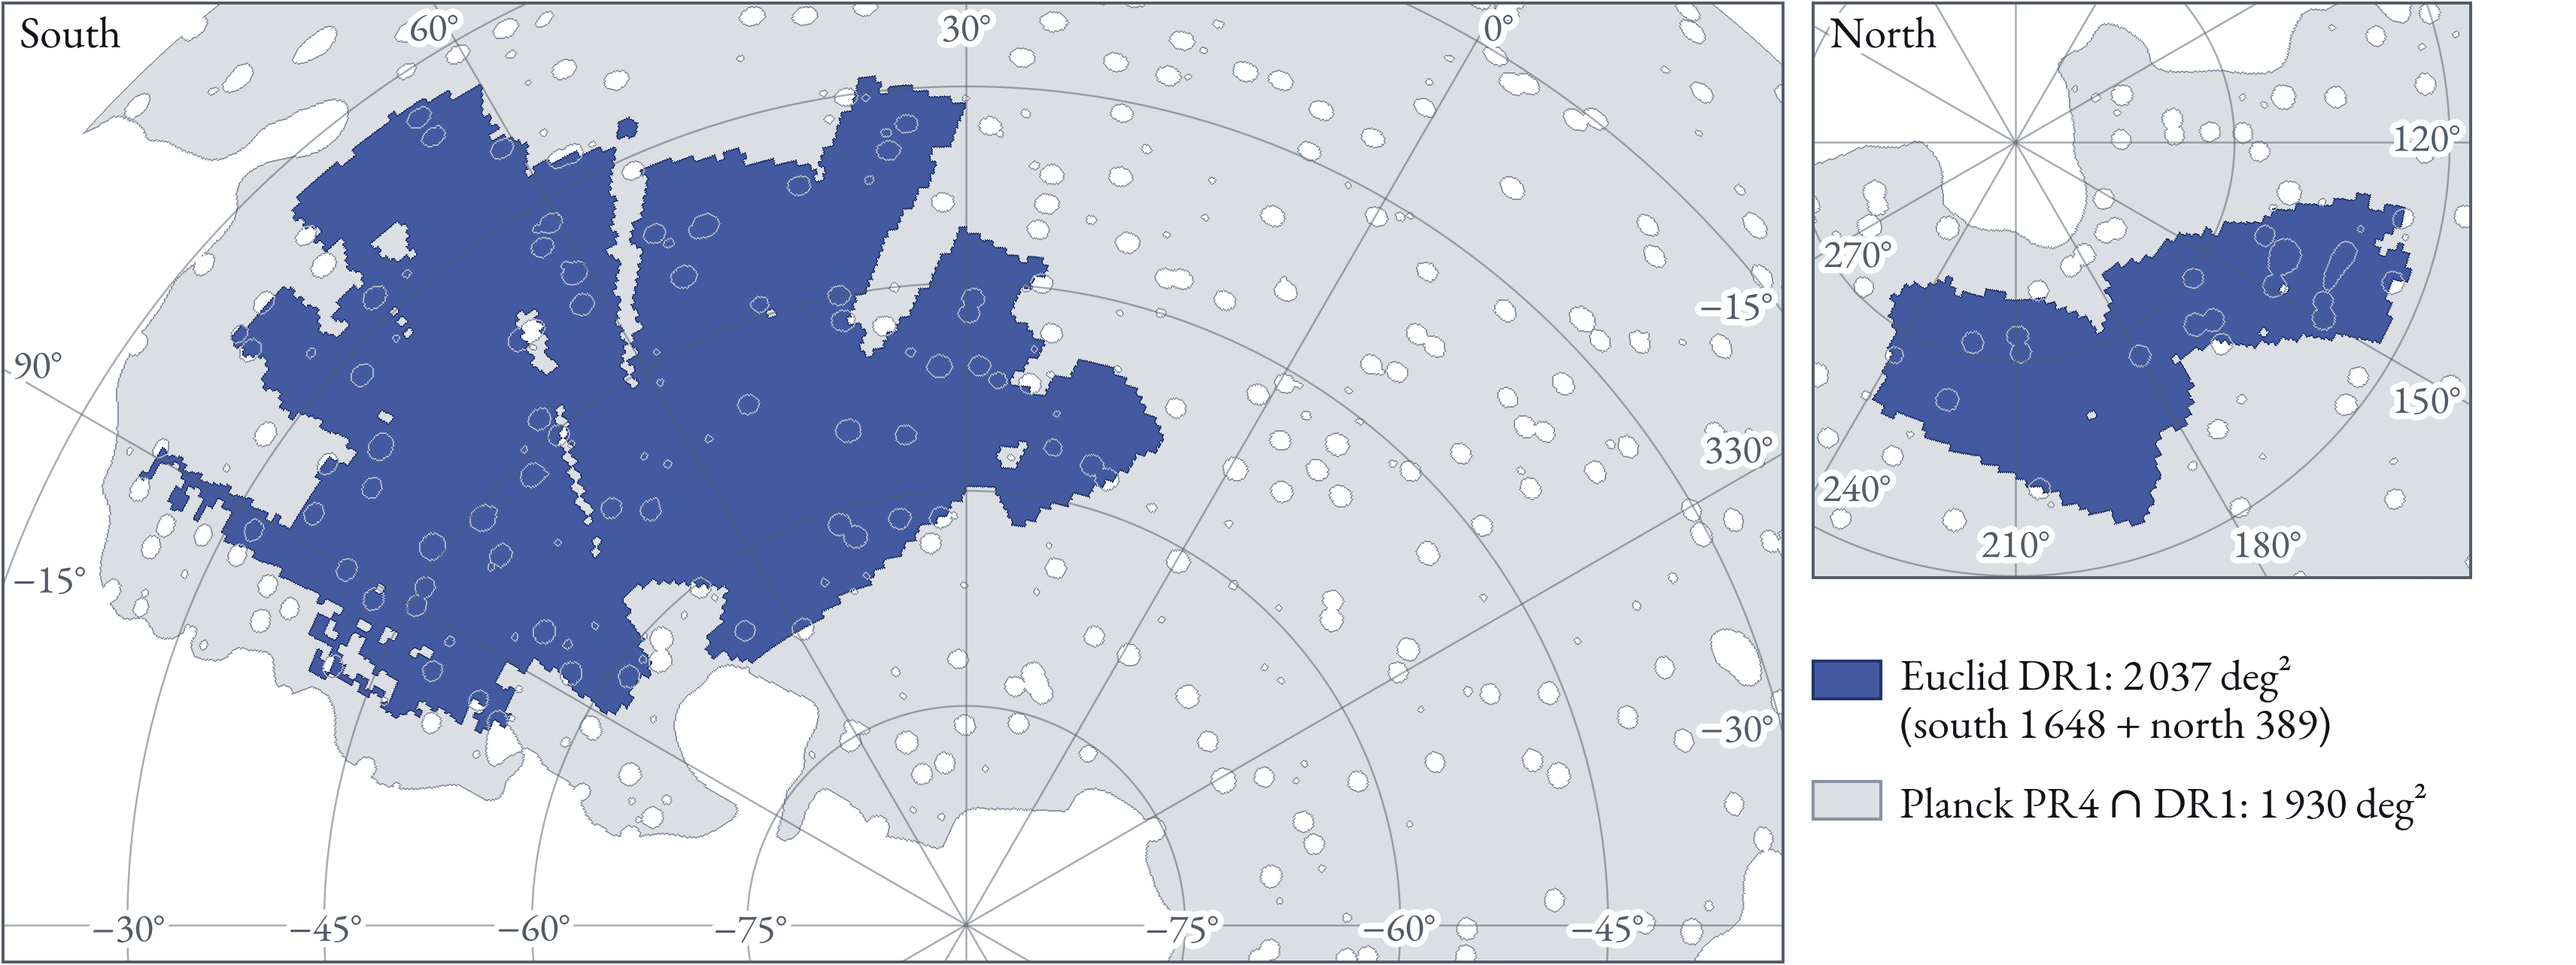
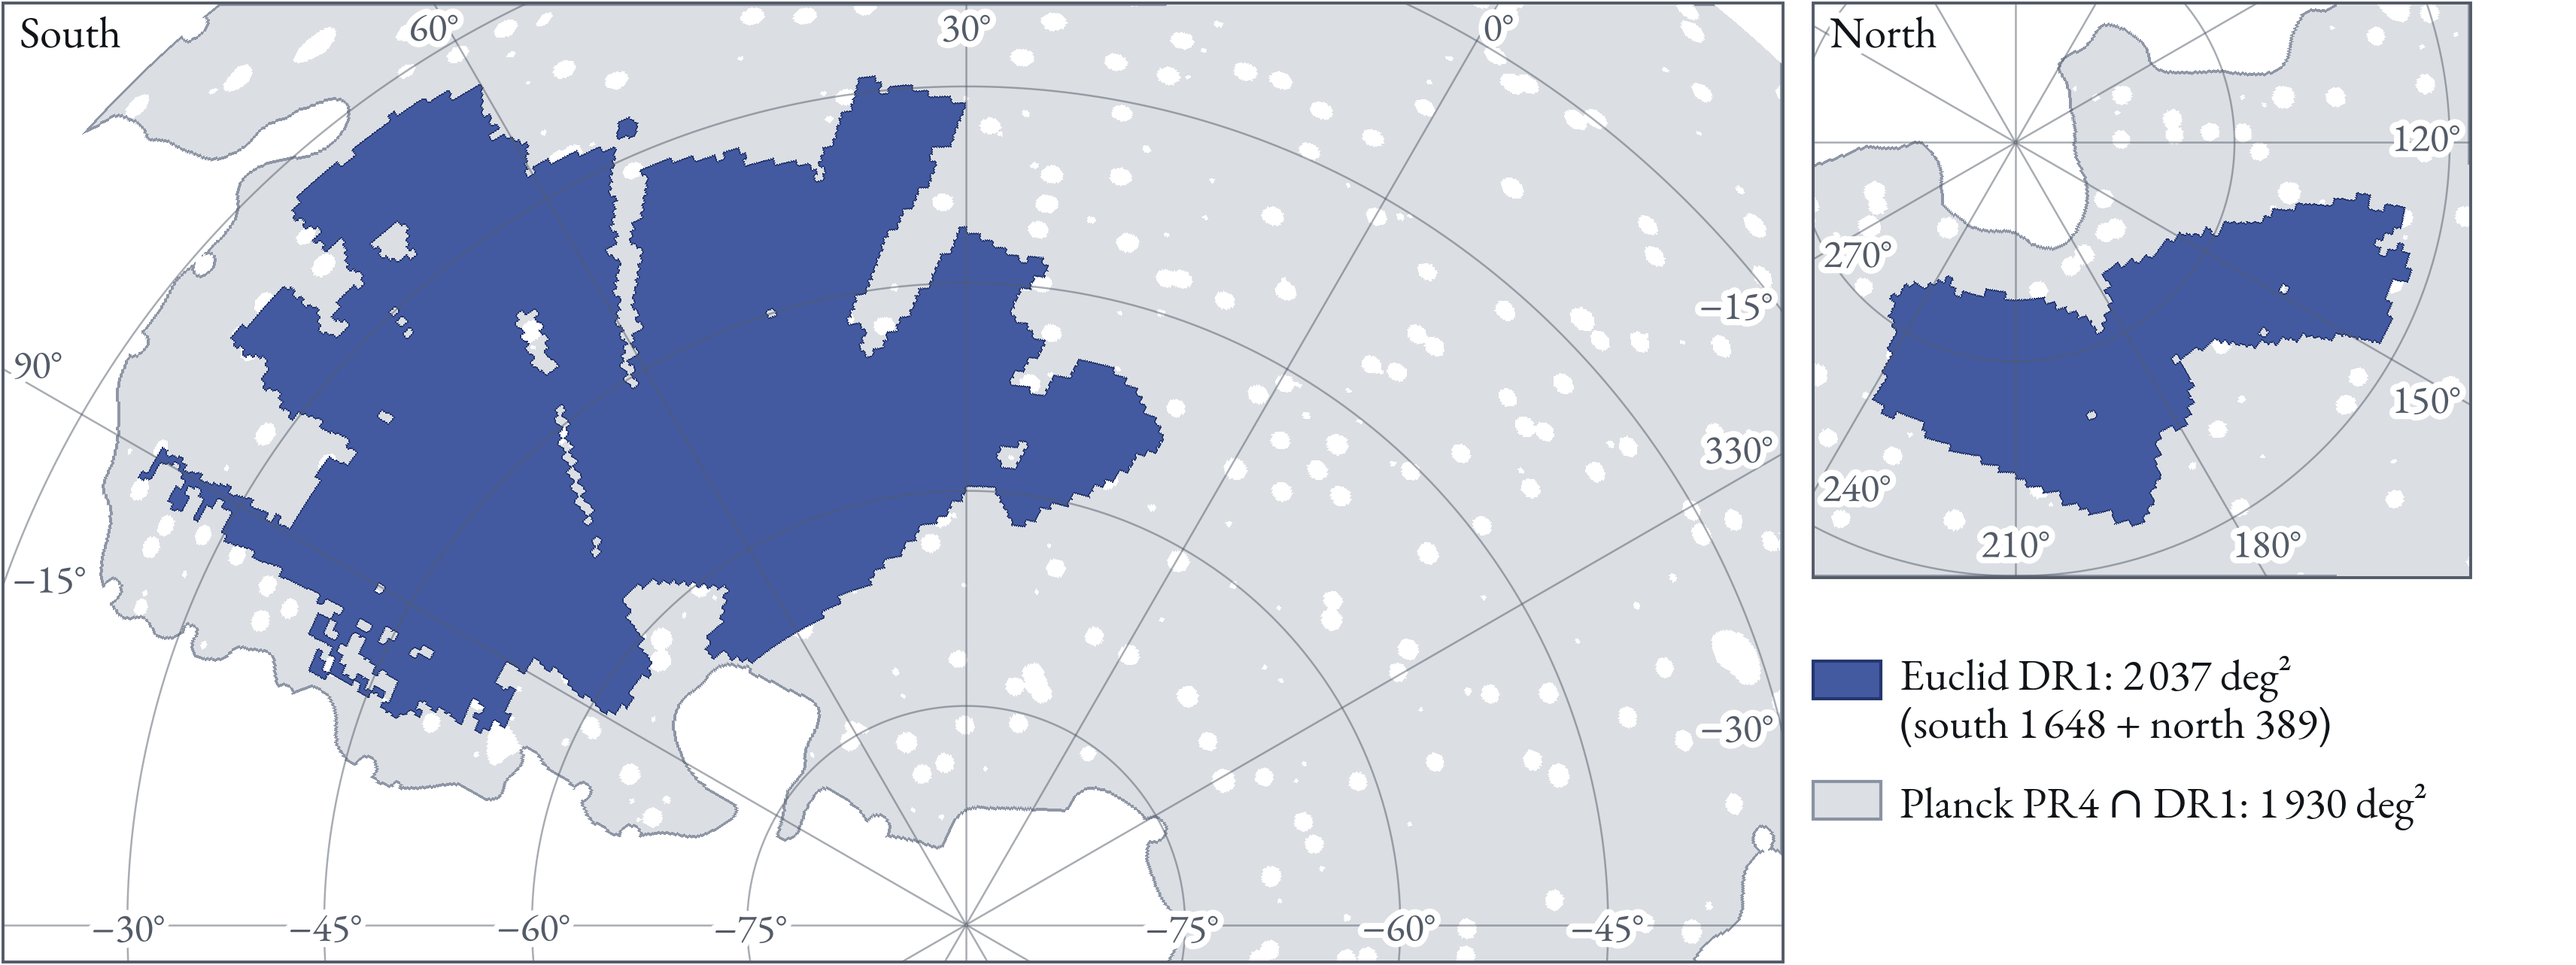
Napoli CMBX footprint slide: darker SPT, outer-boundary outlines at 2 px
SPT-3G Main is a darker teal. CMB outlines follow only each mask's outer
boundary (holes under 10 deg², the point-source cuts, are filled before
the edge is taken) and are 2 px wide as shown.

Claude-Session: https://claude.ai/code/session_01EG55r8GFGPwC9QUBtYHiTU

Changed region(s): [[0.2812, 0.0, 0.3125, 0.0312]]

diff --git a/2610_Napoli_CMBX/slides/footprint.html b/2610_Napoli_CMBX/slides/footprint.html
@@ -10,7 +10,7 @@
   <aside class="notes">
     <p>The blue regions are the two wide areas of Euclid DR1 that a cosmology analysis will use, seen around the south (left) and north (right) celestial poles. Both panels are Lambert azimuthal equal-area projections centred on their pole, at the same scale, so drawn areas compare directly across the slide. Both have north up and east left, as on the sky, and share one vertical great circle (RA 30° above the south pole, RA 210° below the north pole), so RA increases to the left in both. The north pole is the point where the spokes meet in the upper left of the north panel.</p>
     <p>DR1-wide comes from the DR1 observed footprint: the union of the MER VIS tiles in the DR1_R1 and R2 releases, as listed in the archive in October 2025 (2341 deg² in all). That is where VIS mosaics exist, not a shear mask: there are no effective-coverage, star or bright-object cuts yet, and DR1 shear processing is not finished, so the analysis areas will be smaller. DR1-wide keeps, in each hemisphere, the largest connected region of that footprint and any piece within 1° of it: 1648 deg² in the south and 389 deg² in the north, 2037 deg² together. The 304 deg² left out are isolated fields: the patches near the equator, the fields around the north ecliptic pole, and small pieces in the far south.</p>
-    <p>The CMB lensing footprints arrive one at a time, and the legend gives each one's overlap with DR1-wide, labelled “∩ DR1” on the slide; the slide's “Euclid DR1” area is DR1-wide. Where a CMB mask boundary crosses DR1, its outline is drawn over the blue in that survey's colour, including the edges of Planck's point-source holes. Planck PR4 covers 1930 deg² of it, nearly all of both regions. ACT DR6 (baseline lensing mask) covers 1446 deg², all in the south. SPT-3G Main, the 1500 deg² winter field, covers 423 deg² on the southern side of the DR1 south region, partly inside ACT. The north region is seen by Planck alone.</p>
+    <p>The CMB lensing footprints arrive one at a time, and the legend gives each one's overlap with DR1-wide, labelled “∩ DR1” on the slide; the slide's “Euclid DR1” area is DR1-wide. Where a CMB mask boundary crosses DR1, its outline is drawn over the blue in that survey's colour. Outlines follow only the outer boundary of each mask: holes smaller than 10 deg², such as point-source cuts, are not outlined. Planck PR4 covers 1930 deg² of it, nearly all of both regions. ACT DR6 (baseline lensing mask) covers 1446 deg², all in the south. SPT-3G Main, the 1500 deg² winter field, covers 423 deg² on the southern side of the DR1 south region, partly inside ACT. The north region is seen by Planck alone.</p>
     <p>Conventions: the drawn CMB footprints are mask pixels above 0.5 at the mask's native NSIDE 2048. The overlap with DR1-wide is binary, mask above zero and DR1-wide, with DR1 upgraded from NSIDE 1024 to 2048. The maps are drawn at NSIDE 512.</p>
   </aside>
 </section>

diff --git a/2610_Napoli_CMBX/make_footprints.py b/2610_Napoli_CMBX/make_footprints.py
@@ -39,6 +39,7 @@ from matplotlib import font_manager, patheffects
 from matplotlib.colors import to_rgb
 from scipy.sparse import coo_matrix
 from scipy.sparse.csgraph import connected_components
+from scipy import ndimage
 from scipy.spatial import cKDTree
 
 HERE = os.path.dirname(os.path.abspath(__file__))
@@ -60,7 +61,7 @@ INK, MUTED = "#111418", "#535B67"
 C_DR1, C_DR1_EDGE = "#435AA1", "#24366E"   # Euclid blue, opaque on top
 COLOURS = {"planck": ("#8A93A3", 0.30),    # (colour, fill alpha): a grey wash for the near-full sky
            "act": ("#C08A1E", 0.50),       # ochre
-           "spt": ("#1D8A8A", 0.62)}       # teal
+           "spt": ("#0E5E62", 0.66)}       # dark teal
 # each CMB boundary where it crosses DR1, in its own hue, light enough to read on the blue
 OUTLINE_ON_DR1 = {"planck": "#AEB5C2", "act": "#E0B04A", "spt": "#5FD0C8"}
 
@@ -186,6 +187,8 @@ class Panel:
                            ymax - (np.arange(h) + 0.5) / h * (ymax - ymin))
         ra, dec = proj.inv(X, Y)
         self.inside = np.isfinite(dec) & (proj.s * dec > 0)
+        # the projection is equal-area with unit radius, so every pixel covers the same solid angle
+        self.pix_deg2 = ((xmax - xmin) / w) * ((ymax - ymin) / h) * np.degrees(1) ** 2
         self.pix = np.full(X.shape, -1)
         self.pix[self.inside] = hp.ang2pix(NSIDE_PLOT, ra[self.inside], dec[self.inside], lonlat=True)
 
@@ -243,6 +246,19 @@ def deg2(x):
     return f"{float(x):,.0f}".replace(",", " ")
 
 
+OUTLINE_PX = 4        # CMB outlines: 4 figure pixels, 2 px as shown
+HOLE_DEG2 = 10.0      # holes smaller than this (point-source cuts) get no outline
+
+
+def fill_small_holes(b, pix_deg2):
+    """b with its holes smaller than HOLE_DEG2 filled, so only the outer boundary is outlined."""
+    lab, n = ndimage.label(~b)
+    size = np.bincount(lab.ravel(), minlength=n + 1) * pix_deg2
+    small = size < HOLE_DEG2
+    small[0] = False
+    return b | small[lab]
+
+
 def edge(b, width=2):
     """Boundary pixels of a boolean raster, about `width` pixels thick."""
     e = np.zeros_like(b)
@@ -281,7 +297,7 @@ def draw_panel(ax, rgb, P, layers, A, title, dec_rings):
         b = P.sample(A[f"map_{k}"])
         c, a = COLOURS[k]
         over(b, c, a)
-        edges[k] = edge(b, 2) & P.inside
+        edges[k] = edge(fill_small_holes(b, P.pix_deg2), OUTLINE_PX) & P.inside
         over(edges[k], c, 0.95)
     dr1 = P.sample(A["map_dr1"])
     over(dr1, C_DR1, 1.0)
